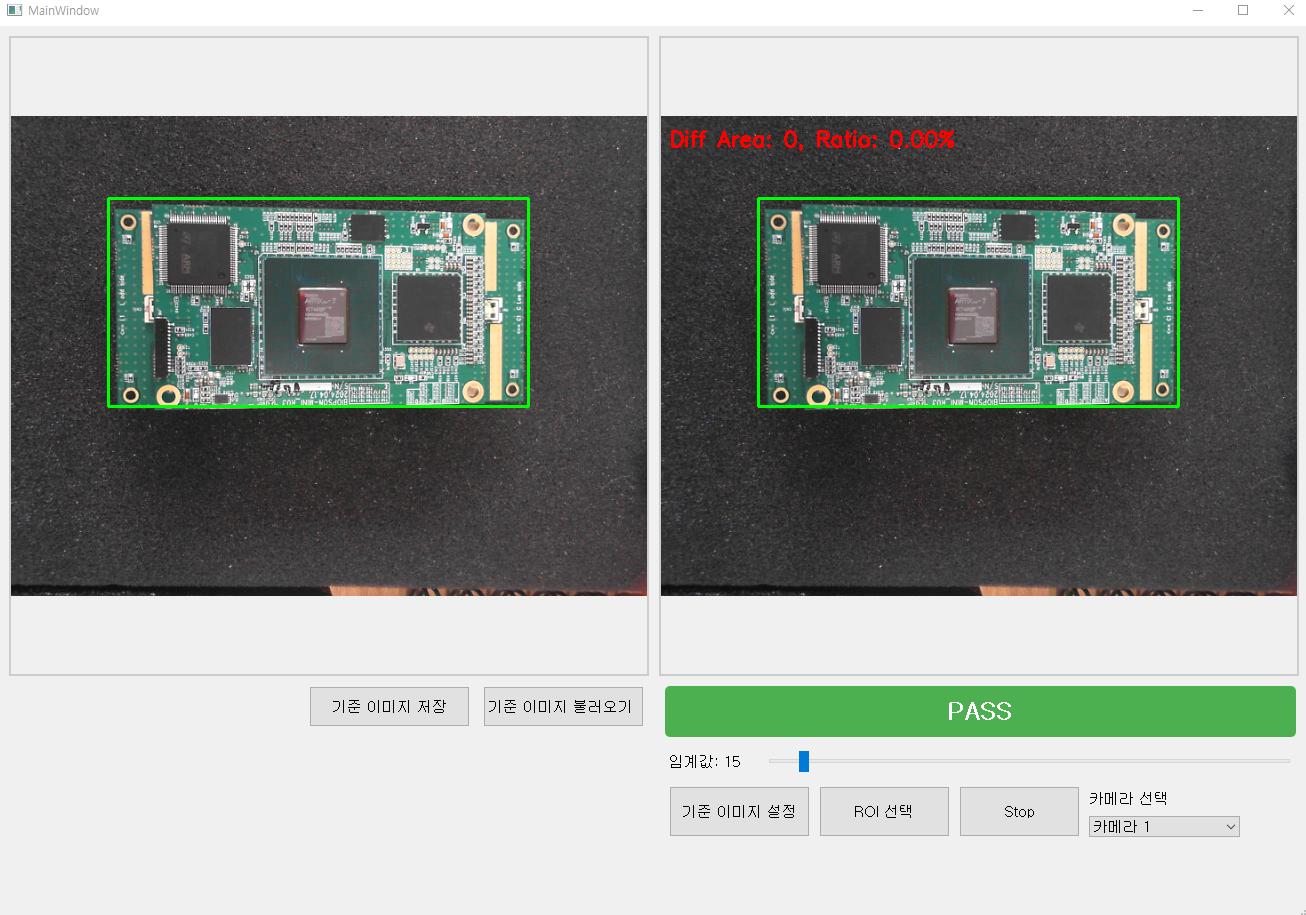
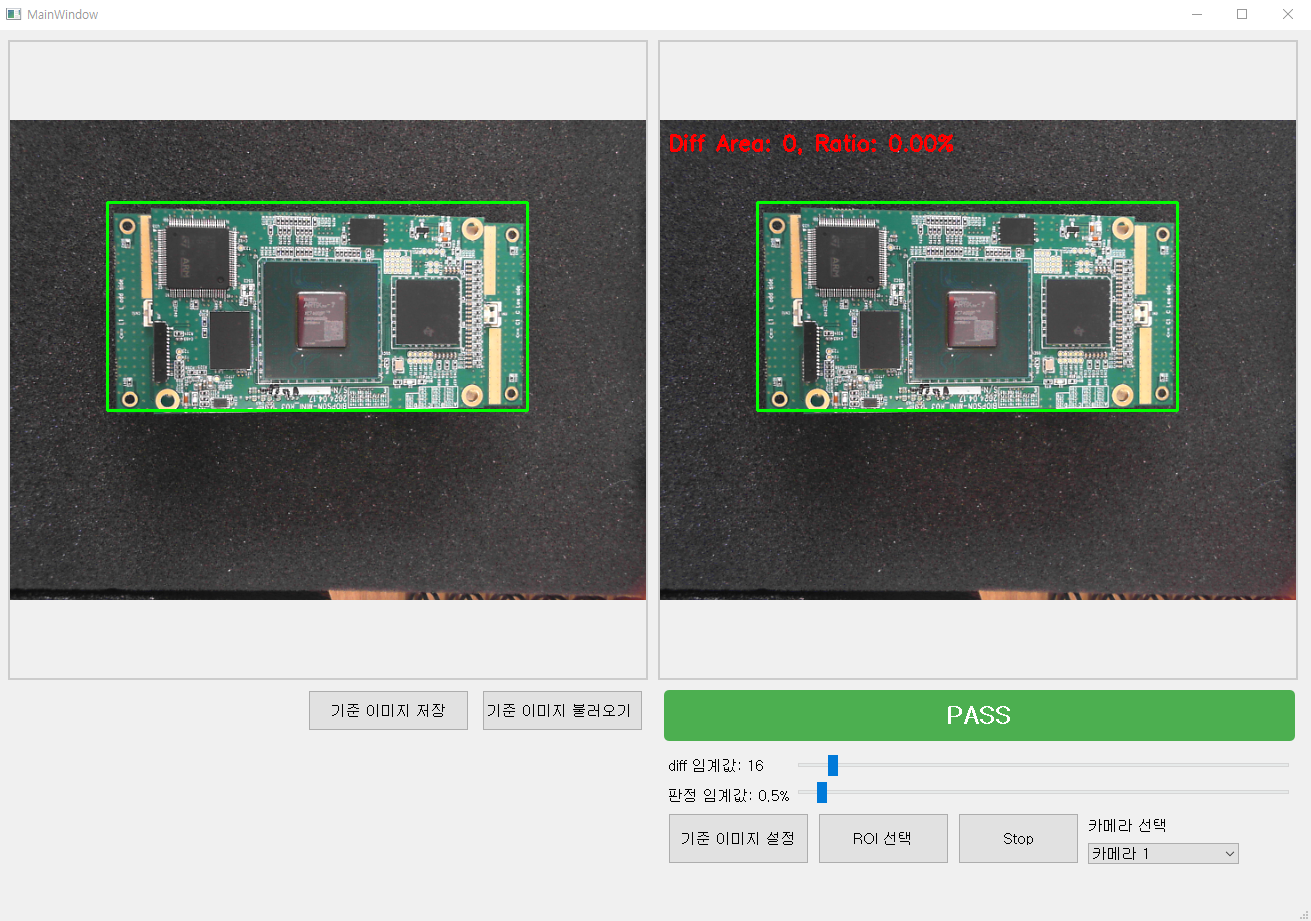
diff_thresshold / ng_threshold 조절 슬라이더바 추가

diff --git a/vision_test.py b/vision_test.py
@@ -19,6 +19,12 @@ class SMTInspectionApp(QMainWindow, form_class):
         self.reference_image = None
         self.current_image = None
         
+        # diff_threshold 초기값 설정
+        self.diff_threshold = 10  # 기본값 설정
+        
+        # ng_threshold 초기값 설정 (0.5%)
+        self.ng_threshold = 0.5
+        
         # 카메라 선택 콤보박스 설정
         self.camera_list = self.get_available_cameras()
         self.camera_comboBox.addItems([f"카메라 {i}" for i in range(len(self.camera_list))])
@@ -34,15 +40,21 @@ class SMTInspectionApp(QMainWindow, form_class):
             sys.exit()
             
         self.counter = 1
-        self.ng_threshold = 10  # 기본값 조정
-        # self.threshold_slider.setMinimum(1)
-        # self.threshold_slider.setMaximum(100)
-        self.threshold_slider.setValue(self.ng_threshold)
-        self.threshold_slider.valueChanged.connect(self.update_threshold)
+
+        # diff_threshold 슬라이더 설정
+        self.diff_threshold_slider.setValue(self.diff_threshold)
+        self.diff_threshold_slider.valueChanged.connect(self.update_diff_threshold)
+        
+        # ng_threshold 슬라이더 설정 (0.1 ~ 10.0, 0.1 단위)
+        self.ng_threshold_slider.setMinimum(1)  # 0.1%
+        self.ng_threshold_slider.setMaximum(100)  # 10.0%
+        self.ng_threshold_slider.setValue(int(self.ng_threshold * 10))
+        self.ng_threshold_slider.valueChanged.connect(self.update_ng_threshold)
         
         # 초기값을 라벨에 표시
-        self.threshold_label.setText(f"임계값: {self.ng_threshold}")
-          
+        self.diff_threshold_label.setText(f"diff 임계값: {self.diff_threshold}")
+        self.ng_threshold_label.setText(f"판정 임계값: {self.ng_threshold:.1f}%")
+        
         # 버튼 연결
         self.ref_button.clicked.connect(self.set_reference)
         
@@ -226,9 +238,16 @@ class SMTInspectionApp(QMainWindow, form_class):
         scaled_image = convert_to_qt_format.scaled(640, 480, Qt.KeepAspectRatio)
         self.reference_label.setPixmap(QPixmap.fromImage(scaled_image))
 
-    def update_threshold(self, value):
-        self.ng_threshold = value
-        self.threshold_label.setText(f"임계값: {value}")
+    def update_diff_threshold(self, value):
+        """diff_threshold 슬라이더 값 업데이트"""
+        self.diff_threshold = value
+        self.diff_threshold_label.setText(f"diff 임계값: {value}")
+
+    def update_ng_threshold(self, value):
+        """ng_threshold 슬라이더 값 업데이트"""
+        """0.1% 단위로 변환"""
+        self.ng_threshold = value / 10.0
+        self.ng_threshold_label.setText(f"판정 임계값: {self.ng_threshold:.1f}%")
 
     def start_roi_selection(self):
         if not self.roi_selection_mode:  # ROI 선택 모드가 아닐 때만 실행
@@ -363,7 +382,7 @@ class SMTInspectionApp(QMainWindow, form_class):
         diff = cv2.absdiff(current_gray, reference_gray)
         
         # 4. 임계값 적용 (슬라이더 값 사용)
-        _, thresh = cv2.threshold(diff, self.ng_threshold, 255, cv2.THRESH_BINARY)
+        _, thresh = cv2.threshold(diff, self.diff_threshold, 255, cv2.THRESH_BINARY)
         
         # 5. 모폴로지 연산으로 노이즈 제거
         kernel = np.ones((3,3), np.uint8)
@@ -409,7 +428,7 @@ class SMTInspectionApp(QMainWindow, form_class):
                    cv2.FONT_HERSHEY_SIMPLEX, 0.7, (0, 0, 255), 2)
         
         # 차이 비율이 임계값을 넘을 때만 NG 처리
-        if diff_ratio > 0.5:  # 5%이상 차이날 때 NG
+        if diff_ratio > self.ng_threshold:  # 설정된 임계값 이상 차이날 때 NG
             has_significant_diff = True
 
         if has_significant_diff:
@@ -454,7 +473,7 @@ class SMTInspectionApp(QMainWindow, form_class):
                 # ROI 정보를 포함한 데이터 저장
                 data = {
                     'roi': self.roi,
-                    'threshold': self.ng_threshold
+                    'threshold': self.diff_threshold
                 }
                 
                 # 이미지와 설정 저장
@@ -488,8 +507,8 @@ class SMTInspectionApp(QMainWindow, form_class):
                     with open(file_name + '.json', 'r') as f:
                         data = json.load(f)
                         self.roi = tuple(data['roi'])
-                        self.ng_threshold = data['threshold']
-                        self.threshold_slider.setValue(self.ng_threshold)
+                        self.diff_threshold = data['threshold']
+                        self.diff_threshold_slider.setValue(self.diff_threshold)
                 except:
                     QMessageBox.warning(self, "경고", "설정 파일을 찾을 수 없습니다. 기본값을 사용합니다.")
                 
